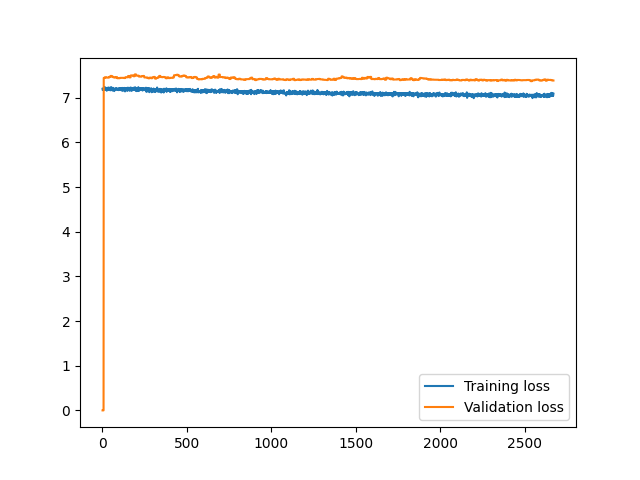
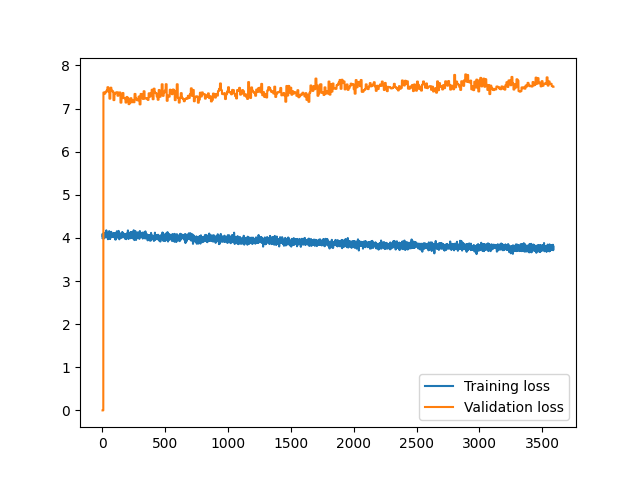
Use joint set train data instead of disjoint

diff --git a/src/model/train.py b/src/model/train.py
@@ -1,7 +1,8 @@
-import argparse
 import os
-
 import torch
+import random
+import argparse
+
 from matplotlib import pyplot as plt
 from torch.backends import mps
 from torch.cuda.amp import GradScaler, autocast
@@ -20,7 +21,7 @@ n = int(0.98 * len(data))
 val_interval = 8
 optimizer_checkpoint_name = "optimizer_cache"
 min_lr = 0.00004
-grad_max_norm = 1.0
+grad_max_norm = 4.0
 max_warmup_steps = 1000
 should_warmup = True
 
@@ -40,12 +41,13 @@ def main():
     logger.special(args)
 
     if args.dropout:
-        min_lr = 0.000008
+        min_lr = 0.00002
 
     if args.device == "xla":
         import torch_xla.core.xla_model as xm
         device = xm.xla_device()
-
+    
+    random.shuffle(data)
     train_data = DataLoader(data[:n], batch_size=args.batch_size, shuffle=True, num_workers=1)
     val_data = DataLoader(data[n:], batch_size=args.batch_size, shuffle=True)
 
@@ -64,7 +66,8 @@ def main():
     # except RuntimeError as e:
     #     print(e)
 
-    if os.path.exists(args.from_pretrained):
+    pretrained_model_exists = os.path.exists(args.from_pretrained)
+    if pretrained_model_exists:
         runner.load(args.from_pretrained, map_location=device)
 
     runner.use_parallel_if_available()
@@ -77,11 +80,11 @@ def main():
     optimizer = torch.optim.AdamW(
         runner.model.parameters(), lr=args.lr, betas=(0.9, 0.95), weight_decay=1e-1
     )
-    if os.path.exists(optimizer_checkpoint_name):
+    if os.path.exists(optimizer_checkpoint_name) and pretrained_model_exists:
         should_warmup = False
         optimizer.load_state_dict(torch.load(optimizer_checkpoint_name))
     
-    scheduler = torch.optim.lr_scheduler.StepLR(optimizer, gamma=0.99, step_size=20)
+    scheduler = torch.optim.lr_scheduler.StepLR(optimizer, gamma=0.999, step_size=20)
     scaler = (
         GradScaler()
         if args.use_mixed_precision and device == "cuda"
@@ -99,11 +102,13 @@ def main():
     n_steps_per_batch = len(train_data)
     n_steps = args.epochs * n_steps_per_batch
 
+    # set_lr(optimizer, 0.00006)
+
     for iter in t:
         for j, (xb, yb) in enumerate(train_data):
             if scheduler.get_lr()[-1] < min_lr:
                 set_lr(optimizer, min_lr)
-            
+
             cur_step = (iter * len(train_data)) + j
             if should_warmup and cur_step <= max_warmup_steps:
                 new_lr = (args.lr / max_warmup_steps) * cur_step

diff --git a/src/model/transformer.py b/src/model/transformer.py
@@ -215,6 +215,7 @@ class TransformerModel(nn.Module):
 
         # final layer norm
         self.ln_f = RMSNorm(n_embd)
+        self.dec_dropout = nn.Dropout(self.dropout)
         self.lm_head = nn.Linear(n_embd, dataset.vocab_size, bias=False)
 
     def forward(self, idx, targets=None, device=None):
@@ -223,9 +224,9 @@ class TransformerModel(nn.Module):
         # idx and targets are both (B, T) tensor of integers
         token_embed = self.token_table(idx)  # (B, T, C)
         pos_embed = self.position_table(torch.arange(T, device=device))  # (T, C)
-        x = token_embed + pos_embed  # (B, T, C)
+        x = self.dec_dropout(token_embed + pos_embed)  # (B, T, C)
         x = self.blocks(x)  # (B, T, C)
-        x = self.ln_f(x)  # (B, T, C)
+        x = self.dec_dropout(self.ln_f(x))  # (B, T, C)
         logits = self.lm_head(x)  # (B, T, dataset.vocab_size)
 
         if targets is None:
@@ -254,11 +255,12 @@ class Block(nn.Module):
         self.ffwd = FeedForward(n_embd, dropout)
         self.ln1 = RMSNorm(n_embd)
         self.ln2 = RMSNorm(n_embd)
+        self.block_dropout = nn.Dropout(dropout)
 
     def forward(self, x) -> torch.Tensor:
         """Add residual connections around each block"""
-        x = self.ln1(x + self.sa_block(x))
-        x = self.ln2(x + self.ffwd(x))
+        x = self.ln1(x + self.block_dropout(self.sa_block(x)))
+        x = self.ln2(x + self.block_dropout(self.ffwd(x)))
 
         return x
 
@@ -301,10 +303,8 @@ class MultiHeadAttention(nn.Module):
             if not self.training:
                 dropout_p = 0
                 is_causal = False
-
             
             out = F.scaled_dot_product_attention(q, k, v, attn_mask=None, dropout_p=dropout_p, is_causal=is_causal)
-
         else:
             # compute attention scores
             scores = torch.matmul(q, k.transpose(-2, -1)) / (self.head_size**0.5)
@@ -349,7 +349,7 @@ class FeedForward(nn.Module):
 class RMSNorm(torch.nn.Module):
     """Normalization which is the same as the one LLaMA uses"""
 
-    def __init__(self, dim: int, eps: float = 3e-5):
+    def __init__(self, dim: int, eps: float = 1e-5):
         super().__init__()
 
         self.eps = eps

diff --git a/src/dataset/dataset.py b/src/dataset/dataset.py
@@ -93,7 +93,7 @@ class BookCorpusDataset(Dataset):
         self.chunk_size = chunk_size
 
         for i in range(0, len(self.train_data) - self.chunk_size, self.chunk_size):
-            sample = self.get_batch(i, i + self.chunk_size)
+            sample = self.get_batch(i)
 
             if len(sample[0]) != self.chunk_size or len(sample[1]) != self.chunk_size:
                 break
@@ -107,9 +107,9 @@ class BookCorpusDataset(Dataset):
             # add pairs
             self.prep_data.append(sample)
 
-    def get_batch(self, beginning, next_idx):
-        starting_phrase = self.train_data[beginning:next_idx]
-        target_word = self.train_data[next_idx : next_idx + self.chunk_size]
+    def get_batch(self, idx):
+        starting_phrase = self.train_data[idx:idx + self.chunk_size]
+        target_word = self.train_data[idx + 1 : idx + 1 + self.chunk_size]
 
         return (starting_phrase, target_word)
 

diff --git a/src/model/evaluate.py b/src/model/evaluate.py
@@ -22,10 +22,7 @@ def main():
         )
         runner.to_device(cpu_device)
 
-        fname = "model_cache"
-        if mode == "dropout":
-            fname = "model_with_dropout_cache"
-        
+        fname = sys.argv[2]
         logger.INFO("Loading", fname)
         
         runner.load(fname, map_location=cpu_device)
@@ -38,12 +35,12 @@ def main():
             context_str = input("> ")
             context = torch.tensor([dataset.encode(dataset.tokenize(context_str))])
 
-            logger.info(context_str)
+            logger.info(context_str, end='')
             runner.generate(
                 context.to(cpu_device),
                 max_new_tokens=int(sys.argv[1]),
                 display=True,
-                temperature=0.9,
+                temperature=0.7,
                 greedy=False,
             )
 

diff --git a/src/config.py b/src/config.py
@@ -1,5 +1,5 @@
 class Config:
-    N_HEADS = 8
-    N_LAYERS = 6
+    N_HEADS = 24
+    N_LAYERS = 16
     N_EMBD = 768
     BLOCK_SIZE = 512
